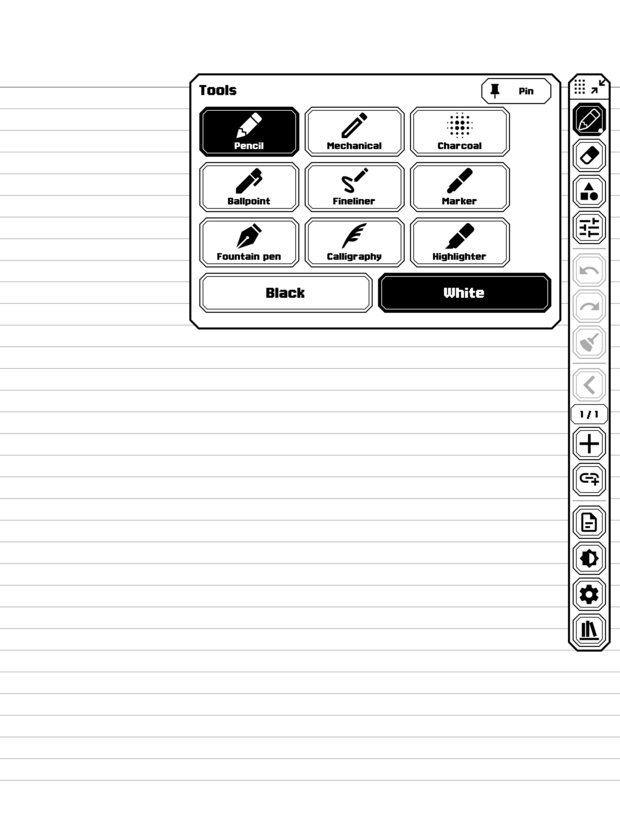
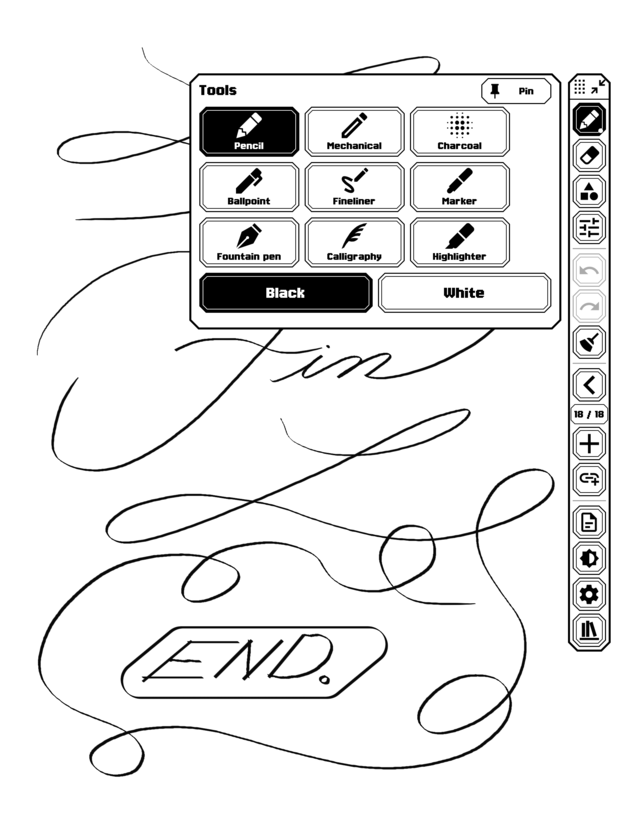
README: the tool picker and Smart shapes over drawn pages, the Pages view, the papers large enough to see
Claude-Session: https://claude.ai/code/session_01Uoe9ZJnsvCnyaaBTehocDc

diff --git a/README.md b/README.md
@@ -22,14 +22,15 @@ Free software under the GPL-3.0. Not affiliated with or endorsed by Amazon.
 <img src="docs/screens/demo-iso.png" width="32%" alt="Isometric paper">
 </p>
 <p>
-<img src="docs/screens/whatsnew.png" width="32%" alt="The Library and What's new">
-<img src="docs/screens/papers.png" width="32%" alt="Choosing a notebook's paper">
-<img src="docs/screens/graph.png" width="32%" alt="The Graph of a notebook's linked pages">
+<img src="docs/screens/tools.png" width="32%" alt="The tool picker over a page">
+<img src="docs/screens/shapes.png" width="32%" alt="Smart shapes over a page">
+<img src="docs/screens/pages.png" width="32%" alt="The Pages view of a notebook">
 </p>
 <p>
-<img src="docs/screens/tools.png" width="32%" alt="The tool picker">
-<img src="docs/screens/shapes.png" width="32%" alt="Smart shapes">
+<img src="docs/screens/whatsnew.png" width="32%" alt="The Library and What's new">
+<img src="docs/screens/graph.png" width="32%" alt="The Graph of a notebook's linked pages">
 </p>
+<p><img src="docs/screens/papers.png" width="97%" alt="The papers a notebook can have"></p>
 <p><img src="docs/screens/liveview.png" width="97%" alt="Live view: the Kindle's screen in a browser, live"></p>
 
 The pages above were drawn on a Kindle Scribe in Grimoire; the last picture is Live view, the
